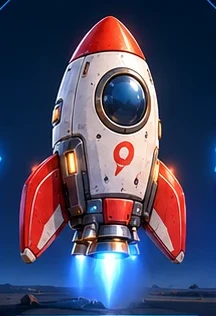
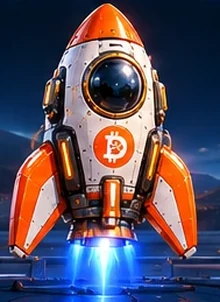
Foguete: artes novas das 5 fases e o D do DOG no lugar do ₿ (#5)
- rocket-1..5.webp recortadas da arte "Evolução do foguete" (mesmas fases:
  Básico, Aprimorado, Avançado, Especial e Lendário).
- O símbolo no casco do foguete 3D passa a ser o "D" com os traços do ₿
  (drawDogBadge); cutout-rocket e sprite-rocket gerados de novo a partir do 3D.

Claude-Session: https://claude.ai/code/session_013wUpE5WbHT5puNWWsGu7bU

diff --git a/src/three/RocketModel.tsx b/src/three/RocketModel.tsx
@@ -8,8 +8,8 @@ import * as THREE from 'three';
  * foi removido do GLB). Encaixado nas medidas do foguete antigo: base em
  * y = -1.55, nariz em y = 1.9, escotilha virada para +Z.
  *
- * A escotilha e o ₿ são pintados na textura do casco; o rosto do DOG e o
- * símbolo são malhas que acompanham a curva do casco (projetadas por raio).
+ * A escotilha e o símbolo são pintados na textura do casco; o rosto do DOG e o
+ * "D" (no lugar do ₿ original) são malhas que acompanham a curva do casco (projetadas por raio).
  */
 
 const MODEL_URL = `${import.meta.env.BASE_URL || './'}models/rocket.glb`;
@@ -17,7 +17,7 @@ const FACE_URL = `${import.meta.env.BASE_URL || './'}dog-face.png`;
 export const ROCKET_NOZZLE_Y = -1.55;
 export const ROCKET_TOP_Y = 1.9;
 
-/** Centro e raio da escotilha e do ₿ no espaço do foguete (medidos no modelo). */
+/** Centro e raio da escotilha e do símbolo no espaço do foguete (medidos no modelo). */
 const PORTHOLE = { x: 0, y: 0.67, r: 0.56 };
 const BTC = { x: 0, y: -0.32, r: 0.29 };
 const DEFAULT_FUR = '#d9924f';
@@ -97,26 +97,53 @@ function useFaceTexture() {
   }, [img]);
 }
 
-/** Símbolo ₿ branco para o círculo laranja do casco. */
+/**
+ * "D" do DOG no estilo do símbolo do Bitcoin (dois traços em cima e embaixo),
+ * branco no círculo laranja do casco, igual às artes de evolução do foguete.
+ */
+export function drawDogBadge(g: CanvasRenderingContext2D, S: number) {
+  g.fillStyle = '#f7931a';
+  g.beginPath();
+  g.arc(S / 2, S / 2, S / 2 - 2, 0, Math.PI * 2);
+  g.fill();
+  g.save();
+  g.translate(S / 2, S / 2);
+  g.rotate(0.24);
+  g.fillStyle = '#ffffff';
+  // D: haste reta à esquerda e barriga arredondada, com o miolo vazado.
+  const h = S * 0.5; // altura do D
+  const w = S * 0.4; // largura do D
+  const t = S * 0.1; // espessura
+  const x0 = -w / 2 + S * 0.02;
+  const y0 = -h / 2;
+  const bowl = (x: number, y: number, bw: number, bh: number) => {
+    const r = bh / 2;
+    g.moveTo(x, y);
+    g.lineTo(x + bw - r, y);
+    g.arc(x + bw - r, y + r, r, -Math.PI / 2, Math.PI / 2);
+    g.lineTo(x, y + bh);
+    g.closePath();
+  };
+  g.beginPath();
+  bowl(x0, y0, w, h);
+  bowl(x0 + t, y0 + t, w - t * 1.6, h - 2 * t);
+  g.fill('evenodd');
+  // Traços acima e abaixo da haste, como no ₿.
+  const tick = S * 0.075;
+  for (const dx of [t * 0.35, t * 1.35]) {
+    g.fillRect(x0 + dx - t * 0.22, y0 - tick, t * 0.44, tick + 1);
+    g.fillRect(x0 + dx - t * 0.22, y0 + h - 1, t * 0.44, tick + 1);
+  }
+  g.restore();
+}
+
+/** Textura do "D" para o círculo laranja do casco. */
 function useBtcTexture() {
   return useMemo(() => {
     const S = 256;
     const c = document.createElement('canvas');
     c.width = c.height = S;
-    const g = c.getContext('2d')!;
-    g.fillStyle = '#f7931a';
-    g.beginPath();
-    g.arc(S / 2, S / 2, S / 2 - 2, 0, Math.PI * 2);
-    g.fill();
-    g.fillStyle = '#ffffff';
-    g.font = `bold ${S * 0.7}px Arial, sans-serif`;
-    g.textAlign = 'center';
-    g.textBaseline = 'middle';
-    g.save();
-    g.translate(S / 2, S / 2 + S * 0.03);
-    g.rotate(0.24);
-    g.fillText('₿', 0, 0);
-    g.restore();
+    drawDogBadge(c.getContext('2d')!, S);
     const t = new THREE.CanvasTexture(c);
     t.colorSpace = THREE.SRGBColorSpace;
     t.anisotropy = 8;

diff --git a/CHANGELOG.md b/CHANGELOG.md
@@ -1,5 +1,9 @@
 # Novidades
 
+## 2.5.2 (setembro de 2026): foguete com o D do DOG
+- **Novas artes das 5 fases do foguete** (Básico, Aprimorado, Avançado, Especial e Lendário) na vitrine da Loja e da Oficina, recortadas da arte "Evolução do foguete".
+- **"D" do DOG no lugar do ₿** no casco do foguete 3D, na tela inicial e no ícone de foguete dos botões.
+
 ## 2.5.1 (setembro de 2026): ajustes no celular
 - **Voo estável no celular**: durante o voo a página do hangar fica travada, então arrastar o dedo não rola mais a tela nem faz a barra do navegador (Xverse, Safari) aparecer e sumir.
 - **Painéis sem falhas no iPhone**: no celular os painéis não usam mais o desfoque de fundo, que no Safari e nos navegadores das carteiras cortava títulos (como "Loja") e os cantos luminosos.
